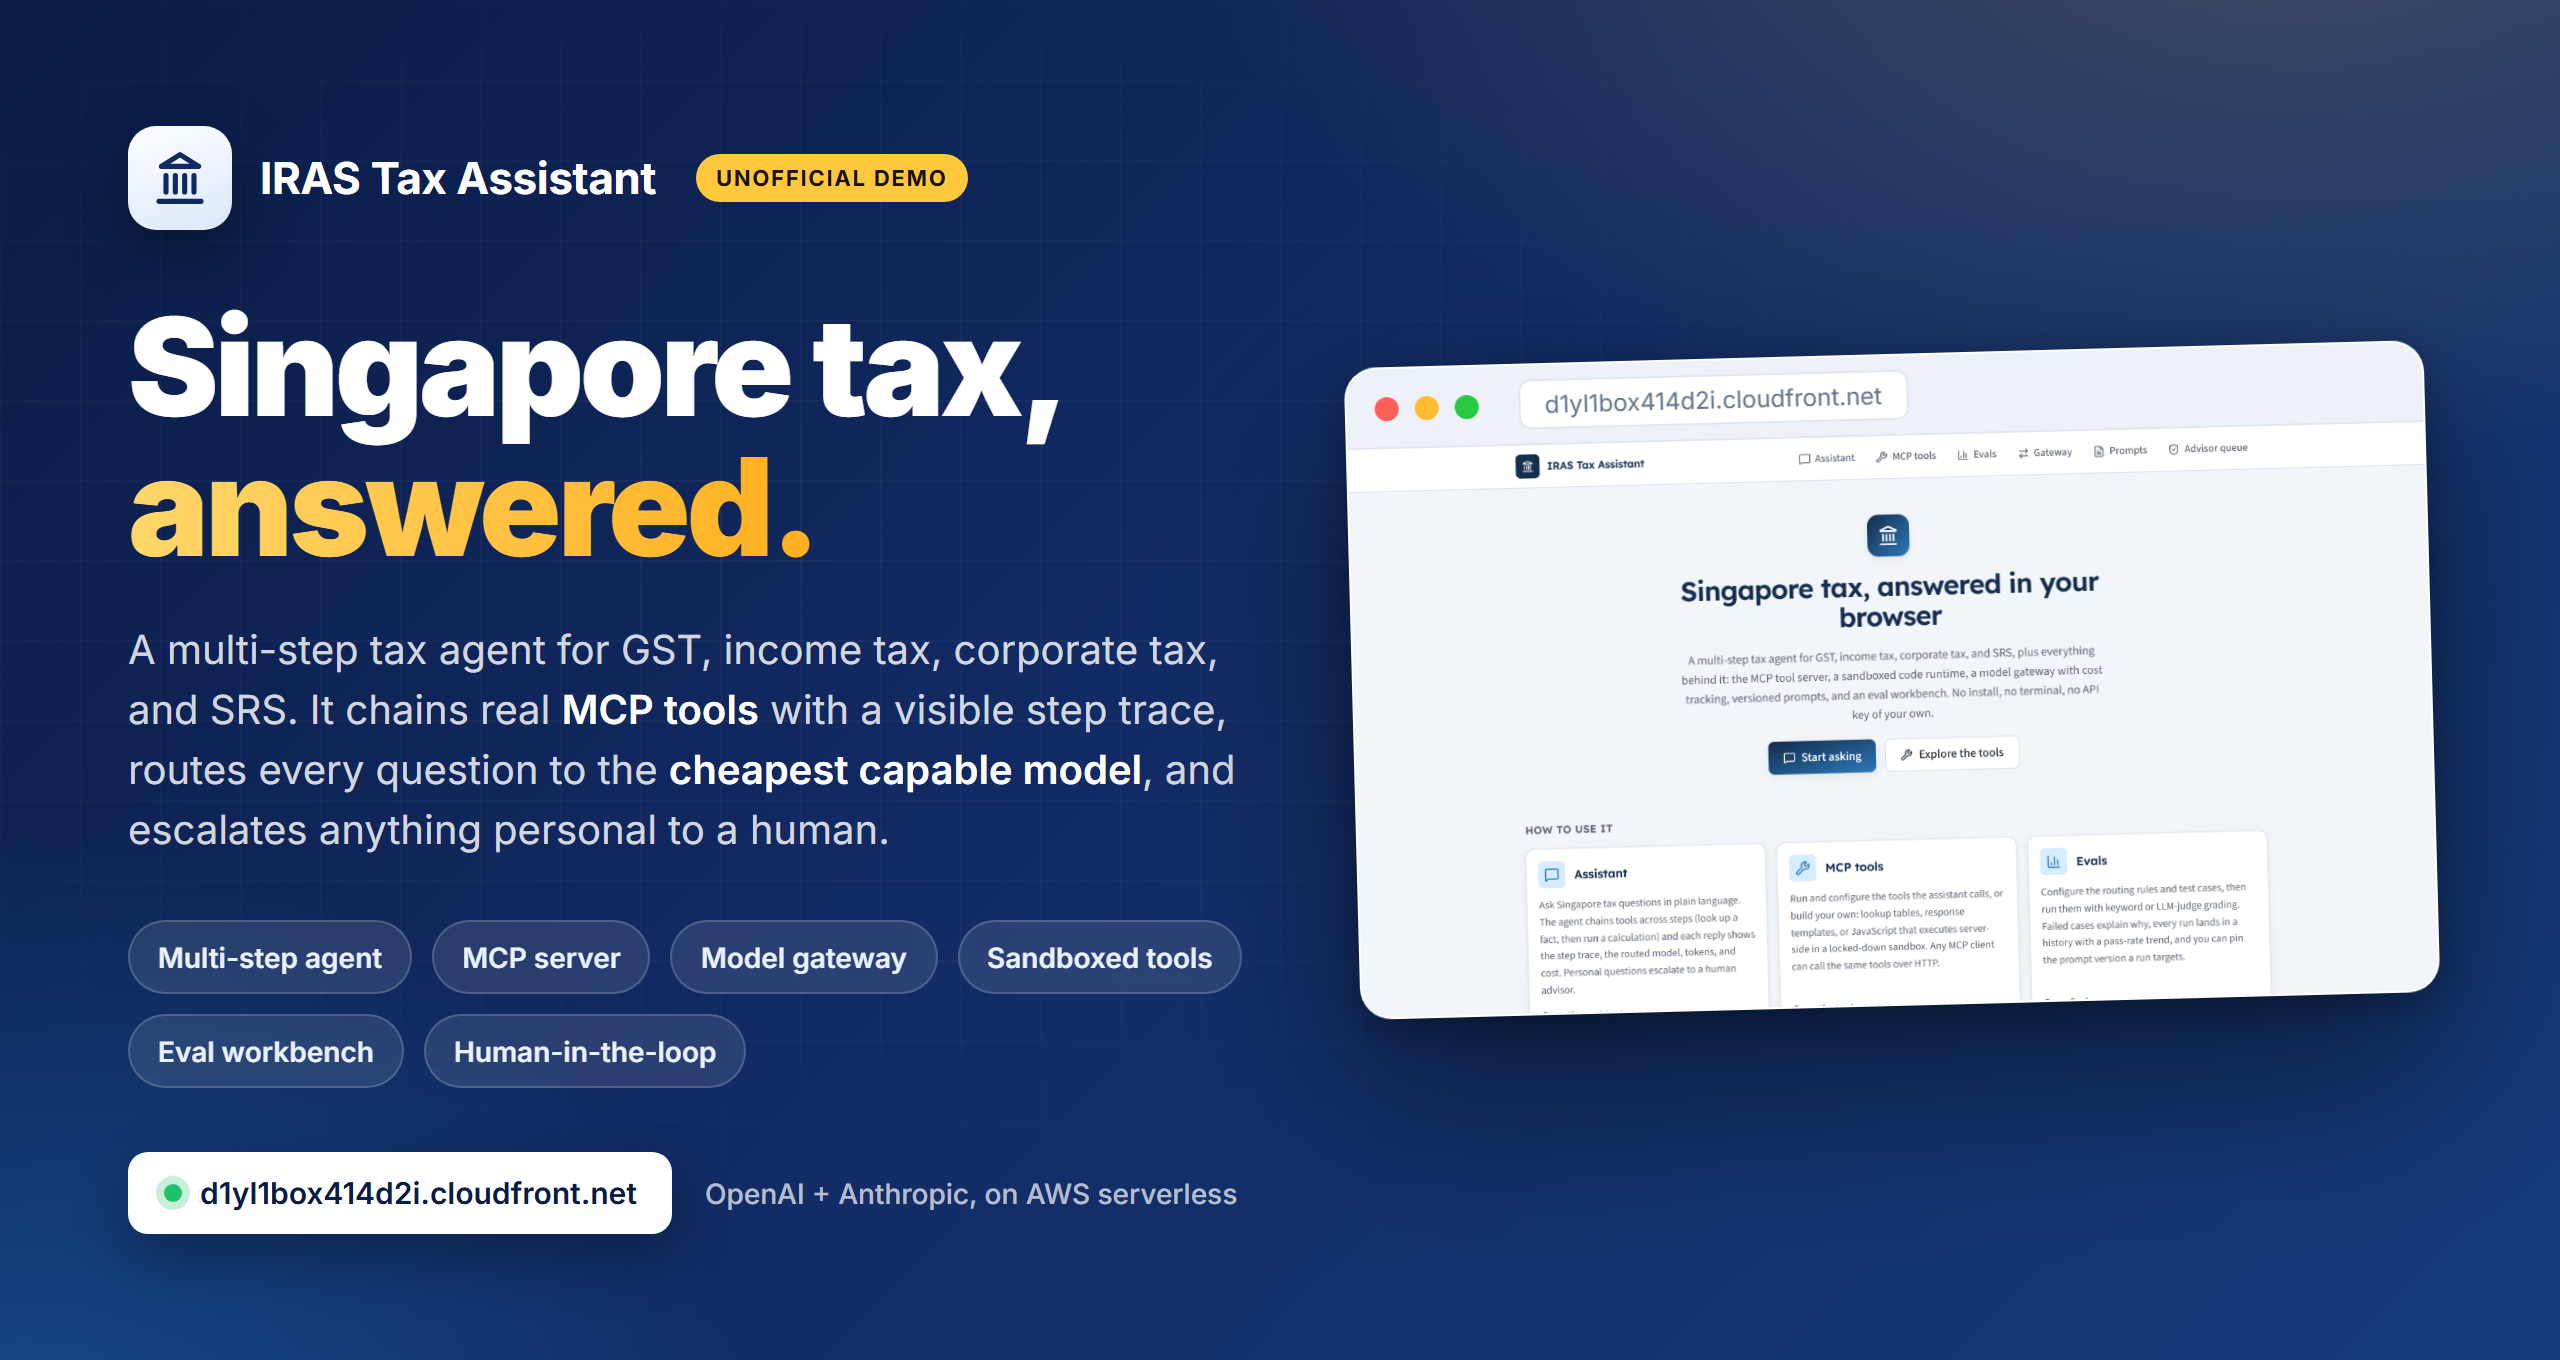
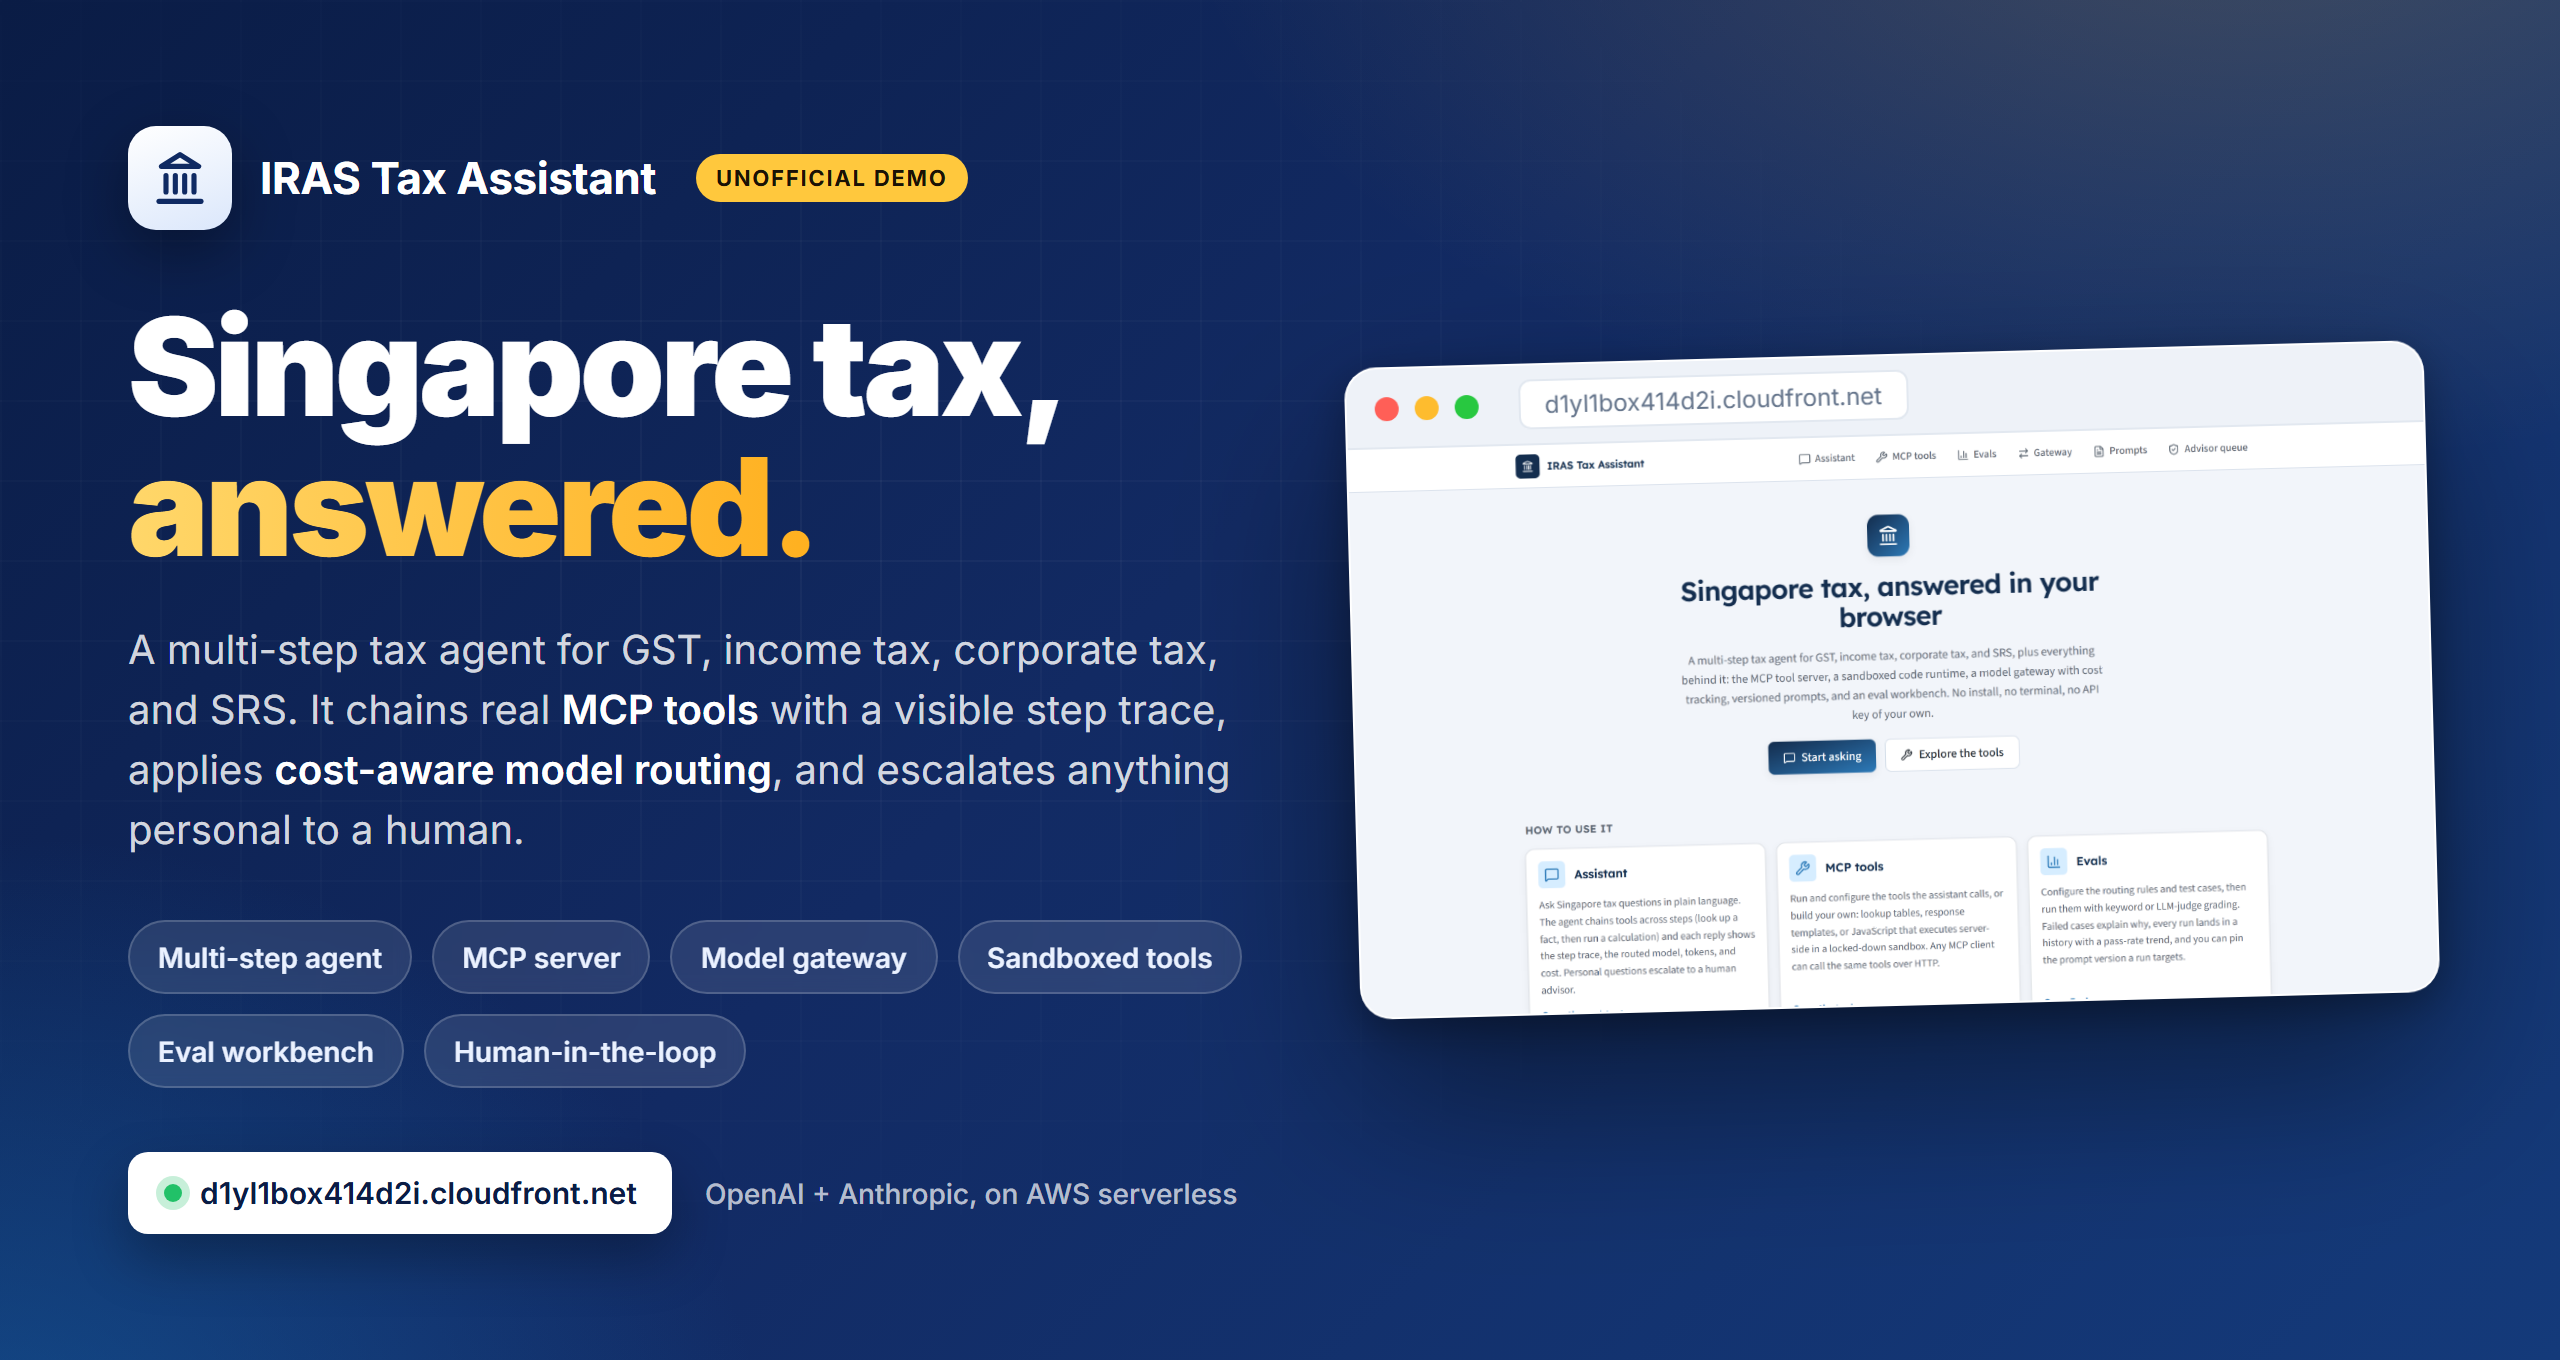
docs: cheapest capable model -> cost-aware model routing
The personalised and PII routes pick models for judgment and data
handling, not price, so cheapest-capable overstated the policy. The
header, feature bullet, tour copy, and hero banner now say cost-aware
model routing.

Changed region(s): [[0.0312, 0.5559, 0.5, 0.6176]]

diff --git a/docs/hero.html b/docs/hero.html
@@ -122,8 +122,8 @@
 
       <p class="sub">
         A multi-step tax agent for GST, income tax, corporate tax, and SRS. It chains
-        real <b>MCP tools</b> with a visible step trace, routes every question to the
-        <b>cheapest capable model</b>, and escalates anything personal to a human.
+        real <b>MCP tools</b> with a visible step trace, applies <b>cost-aware model
+        routing</b>, and escalates anything personal to a human.
       </p>
 
       <div class="pills">

diff --git a/README.md b/README.md
@@ -2,7 +2,7 @@
 
 # Unofficial IRAS Tax Assistant
 
-**A multi-step Singapore tax agent that answers GST, income tax, corporate tax, and SRS questions in plain language. It chains real MCP tools with a visible step trace, routes every query to the cheapest capable model across OpenAI and Anthropic through an observed gateway, runs visitor-built tools in a secure sandbox, and escalates anything personal to a human.**
+**A multi-step Singapore tax agent that answers GST, income tax, corporate tax, and SRS questions in plain language. It chains real MCP tools with a visible step trace, applies cost-aware model routing across OpenAI and Anthropic through an observed gateway, runs visitor-built tools in a secure sandbox, and escalates anything personal to a human.**
 
 [![Live](https://img.shields.io/badge/live-d1yl1box414d2i.cloudfront.net-1668B0)](https://d1yl1box414d2i.cloudfront.net) &nbsp;![Spec gate](https://img.shields.io/badge/spec%20gate-57%2F57%20covered-2e9e44) &nbsp;![Next.js](https://img.shields.io/badge/Next.js%2016-App%20Router-000000) &nbsp;![AI SDK](https://img.shields.io/badge/Vercel%20AI%20SDK-v6-0A0A0A) &nbsp;![AWS](https://img.shields.io/badge/AWS-CloudFront%20%2B%20Lambda%20%2B%20S3-FF9900) &nbsp;![IaC](https://img.shields.io/badge/IaC-CDK%20%2B%20OpenNext-4F46E5)
 
@@ -41,7 +41,7 @@
 Three command-line projects, an MCP tool server, a tax agent, and an LLM eval harness, made usable by anyone in a browser. No install, no terminal, no API key of your own.
 
 - **Assistant.** Ask a Singapore tax question. It grounds factual answers in IRAS facts via a tool, can work out a rough chargeable-income estimate, and routes anything personal to a human advisor. Conversations have history and a New chat button, stored per browser.
-- **Cheapest capable routing.** A deterministic rule engine picks a model per query from six models across OpenAI and Anthropic, so a simple lookup uses a cheap model and a complex comparison uses a premium one. Each answer shows which model handled it.
+- **Cost-aware model routing.** A deterministic rule engine picks a model per query from six models across OpenAI and Anthropic, so a simple lookup uses a cheap model and a complex comparison uses a premium one. Each answer shows which model handled it.
 - **Configurable MCP tools.** The three built-in tools can be enabled, disabled, redescribed, and (for the lookup tool) have their facts edited. Visitors can also build their own lookup, template, or sandboxed code tools; three examples are preloaded so there is something to run immediately. Edits apply to the live assistant.
 - **An eval workbench.** Edit the routing rules and the test cases, click Run, and watch each case route to a model and get graded (keyword or LLM-as-judge), with a per-model comparison and a persisted run history. Failed cases say why: the missed keywords, or the judge's score and rationale. The same suite runs in CI as a regression gate against a committed baseline.
 - **A model gateway.** Every model call (chat, evals, the judge) flows through one gateway that times it, counts tokens, computes USD cost from list prices, falls back across providers on error, and logs it to the `/gateway` page.
@@ -84,7 +84,7 @@ One card per page and six example questions, together covering every scenario: l
 
 ### Assistant: tools, routing, and the visible agent loop
 
-A factual question calls the `lookup_tax_info` tool and is answered by the cheapest model the rules pick (here, GPT-4o mini). Each reply carries a step trace of the tool calls and a chip with the routed model, tokens, and cost. The scenario chips stay above the composer, so every scenario can be tried in the same chat.
+A factual question calls the `lookup_tax_info` tool and is answered by the inexpensive model the rules pick for lookups (here, GPT-4o mini). Each reply carries a step trace of the tool calls and a chip with the routed model, tokens, and cost. The scenario chips stay above the composer, so every scenario can be tried in the same chat.
 
 <img src="docs/img/assistant.png" alt="Assistant answering a GST question, showing the step trace and the routed model with tokens and cost" width="100%">
 